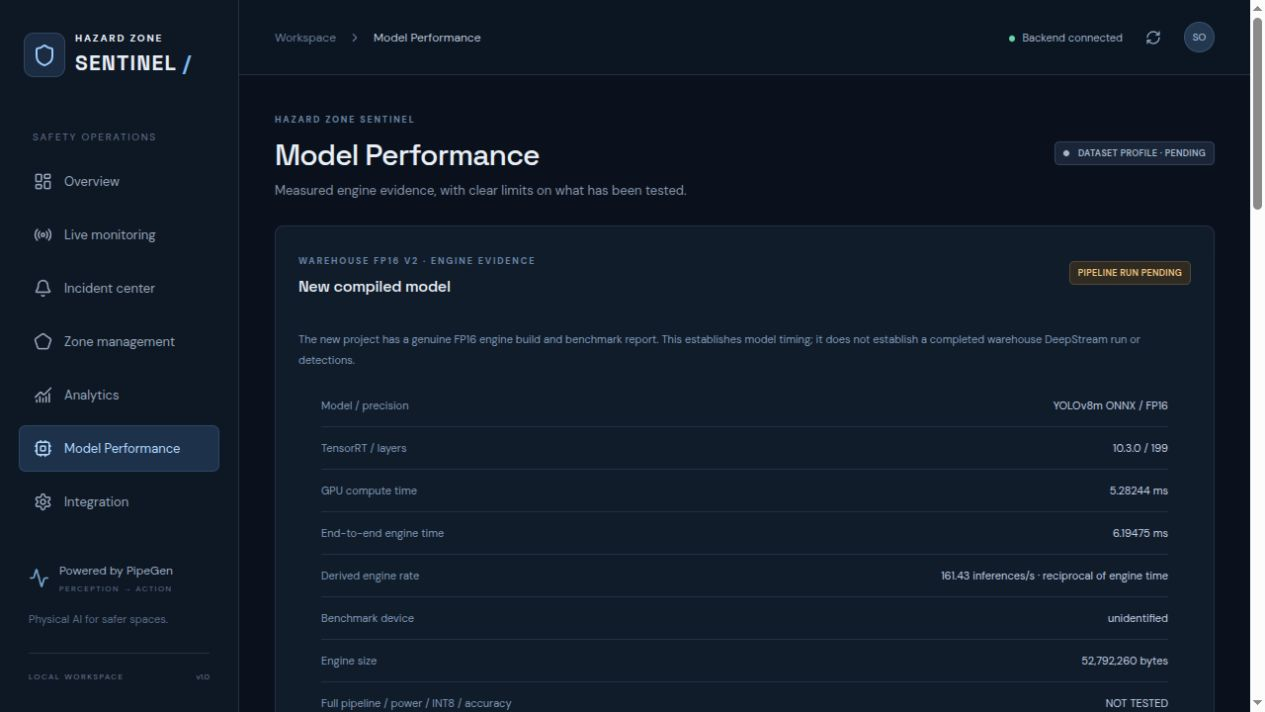
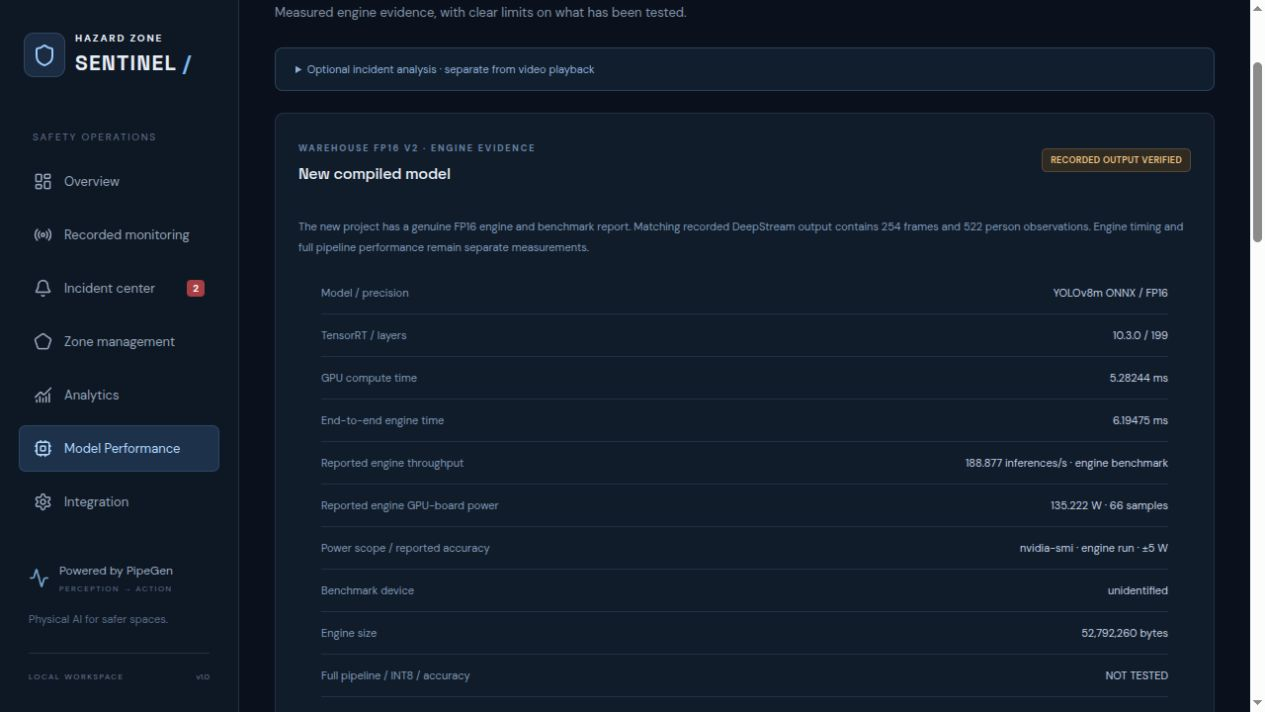
Finalize warehouse benchmark provenance and judging handoff

diff --git a/frontend/src/ModelPerformance.tsx b/frontend/src/ModelPerformance.tsx
@@ -6,7 +6,7 @@ const measured = (value: unknown, digits = 5) => typeof value === 'number' && Nu
 export default function ModelPerformance() {
  const maximum=Math.max(report.measured_gpu_compute_ms,report.measured_end_to_end_engine_ms);
  return <div className="performance-page">
-  <section className="panel"><div className="panel-heading"><div><span className="eyebrow">WAREHOUSE FP16 V2 · ENGINE EVIDENCE</span><h2>New compiled model</h2></div><span className="badge amber">RECORDED OUTPUT VERIFIED</span></div><div className="performance-provenance"><p>The new project has a genuine FP16 engine and benchmark report. Matching recorded DeepStream output contains 254 frames and 522 person observations. Engine timing and full pipeline performance remain separate measurements.</p><dl className="details"><dt>Model / precision</dt><dd>{warehouse.model} / {warehouse.precision.toUpperCase()}</dd><dt>TensorRT / layers</dt><dd>{warehouse.tensorrt} / {warehouse.layer_count}</dd><dt>GPU compute time</dt><dd>{warehouse.measured_gpu_compute_ms} ms</dd><dt>End-to-end engine time</dt><dd>{warehouse.measured_end_to_end_engine_ms} ms</dd><dt>Derived engine rate</dt><dd>{(1000/warehouse.measured_end_to_end_engine_ms).toFixed(2)} inferences/s · reciprocal of engine time</dd><dt>Benchmark device</dt><dd>{warehouse.benchmark_device_in_report}</dd><dt>Engine size</dt><dd>{warehouse.engine_bytes.toLocaleString()} bytes</dd><dt>Full pipeline / power / INT8 / accuracy</dt><dd>NOT TESTED</dd></dl><p>{warehouse.caveat}</p><code>evidence/04-tensorrt-fp16/warehouse-engine-summary.json</code></div></section>
+  <section className="panel"><div className="panel-heading"><div><span className="eyebrow">WAREHOUSE FP16 V2 · ENGINE EVIDENCE</span><h2>New compiled model</h2></div><span className="badge amber">RECORDED OUTPUT VERIFIED</span></div><div className="performance-provenance"><p>The new project has a genuine FP16 engine and benchmark report. Matching recorded DeepStream output contains 254 frames and 522 person observations. Engine timing and full pipeline performance remain separate measurements.</p><dl className="details"><dt>Model / precision</dt><dd>{warehouse.model} / {warehouse.precision.toUpperCase()}</dd><dt>TensorRT / layers</dt><dd>{warehouse.tensorrt} / {warehouse.layer_count}</dd><dt>GPU compute time</dt><dd>{warehouse.measured_gpu_compute_ms} ms</dd><dt>End-to-end engine time</dt><dd>{warehouse.measured_end_to_end_engine_ms} ms</dd><dt>Reported engine throughput</dt><dd>{warehouse.reported_engine_throughput_qps} inferences/s · engine benchmark</dd><dt>Reported engine GPU-board power</dt><dd>{warehouse.reported_power.engine_power_w} W · {warehouse.reported_power.power_samples} samples</dd><dt>Power scope / reported accuracy</dt><dd>nvidia-smi · engine run · ±{warehouse.reported_power.power_accuracy_w} W</dd><dt>Benchmark device</dt><dd>{warehouse.benchmark_device_in_report}</dd><dt>Engine size</dt><dd>{warehouse.engine_bytes.toLocaleString()} bytes</dd><dt>Full pipeline / INT8 / accuracy</dt><dd>NOT TESTED</dd></dl><p>{warehouse.caveat}</p><code>evidence/04-tensorrt-fp16/warehouse-engine-summary.json</code></div></section>
   <div className="performance-notice"><FileCheck2 size={21}/><div><strong>Historical engine evidence</strong><p>These values come from the existing compiler report. They describe the recorded model’s TensorRT engine benchmark, not the active scene, a new factory run, or complete application throughput.</p></div><span className="badge blue">SOURCE-BACKED</span></div>
   <div className="performance-metrics">
    <section className="stat-card"><div><span>GPU compute time</span><Cpu size={19} className="blue"/></div><strong>{measured(report.measured_gpu_compute_ms)}<em>ms</em></strong><small>Measured engine benchmark</small></section>
@@ -18,7 +18,7 @@ export default function ModelPerformance() {
    <section className="panel"><div className="panel-heading"><div><span className="eyebrow">COMPILED ARTIFACT</span><h2>Model and engine details</h2></div></div><dl className="details"><dt>Model</dt><dd>{report.model}</dd><dt>Semantic model version</dt><dd>{report.semantic_model_version}</dd><dt>Input shape</dt><dd>{report.input_shape.join(' × ')}</dd><dt>Engine size</dt><dd>{report.engine_bytes.toLocaleString()} bytes</dd><dt>Layer precision</dt><dd>{report.precision_mix.FP16} FP16 · {report.precision_mix.FP32} FP32</dd><dt>Derived engine rate</dt><dd>{(1000/report.measured_end_to_end_engine_ms).toFixed(2)} inferences/s · reciprocal of engine time</dd><dt>Benchmark device</dt><dd>Not identified in report</dd></dl></section>
    <section className="panel full-width"><div className="panel-heading"><div><span className="eyebrow">EVIDENCE BOUNDARIES</span><h2>What remains unmeasured</h2></div><span className="badge amber">NO INFERRED RESULTS</span></div><div className="table-scroll"><table className="performance-boundaries"><thead><tr><th>METRIC / TARGET</th><th>STATUS</th><th>WHAT THE CURRENT EVIDENCE ESTABLISHES</th></tr></thead><tbody>{[
     ['Full pipeline performance','NOT MEASURED','Engine timing does not include decoding, tracking, analytics, storage, or the dashboard.'],
-    ['Actual GPU power consumption','NOT TESTED','No verified wattage measurement is provided.'],
+    ['Whole-system / full-pipeline power','NOT TESTED','New engine-run GPU-board power is reported above; no whole-system or complete-pipeline power measurement is supplied.'],
     ['INT8 engine / accuracy','NOT TESTED','No measured INT8 build or comparison is supplied.'],
     ['Precision / recall / mAP','NOT TESTED','No labeled validation dataset and measured accuracy report is supplied.'],
     ['Dataset evaluation','NOT TESTED','Warehouse footage is a demonstration clip; no reviewed held-out ground truth is supplied.'],

diff --git a/docs/factory-release.md b/docs/factory-release.md
@@ -1,91 +1,69 @@
-# Factory safety release — evidence and asset boundary
+# Verified warehouse release
 
-The `release/factory-safety` branch preserves the known-good street replay while preparing an explicitly separate factory/warehouse dataset. Historical footage remains labeled **historical street**. The completed factory output is now preserved as an immutable metadata snapshot; live GUI execution evidence and downstream visual QA remain distinct checks. Reusing street metadata against different footage is prohibited.
+**Application:** http://127.0.0.1:5173/ · **API:** http://127.0.0.1:8003/ · **Cutoff:** October 18, 2026, **4 PM IST**, explicitly selected by the user.
 
-## Current evidence status
+## Verified results
 
-| Item | Status | Evidence / limitation |
-| --- | --- | --- |
-| Historical street replay | DONE | 1,029 frames; 7,688 person observations; 89 recurring raw IDs; 33 application-computed alerts: 23 first observed inside, 10 observed entries; 11 observed exits, zero verified reentries |
-| Original source/export preservation | DONE for read-only audit and private draft asset | Existing metadata/archive unchanged; archived export uploaded privately with API digest matching local hash |
-| Factory footage | VERIFIED SOURCE | Licensed Pexels Tiger Lily warehouse clip, H264 1920×1080, 25 FPS, 254 decoded frames, 10.16 s; its matched factory metadata snapshot is preserved |
-| New factory PipeGen output | VERIFIED METADATA SOURCE; LIVE-DEMO EVIDENCE STILL REQUIRED | Separate project output: 254 frames, 522 person observations, 6 raw tracker IDs; generated pipeline uses the warehouse source. Actual venue demonstration/run capture remains outstanding |
-| Factory scene ROI | CONFIGURATION VERIFIED; PHYSICAL VALIDITY LIMITED | Final frame-relative polygon `(0.42,0.74)`–`(0.62,0.86)`; generated native `RestrictedZone` pixel coordinates `(806,799),(1190,799),(1190,929),(806,929)`. Camera moves; hypothetical screen zone, not calibrated physical hazard |
-| Factory synchronized dashboard | VERIFIED RECORDED REPLAY | Browser frames 25/50/75/100 at 1/2/3/4 s aligned with original pixel boxes and SVG rectangles; sampled PTS delta zero. App screenshot preserved; this is not PipeGen GUI or live inference evidence |
-| Labeled accuracy, fine-tuning and INT8 comparison | NOT TESTED | No reviewed held-out factory labels or matched measurements supplied to this release documentation |
-| Jetson deployment | NOT DEPLOYED / NOT TESTED | RTX execution and modeled Orin estimates do not establish Jetson deployment |
+The new Warehouse FP16 v2 project `5b159399-c172-4ac5-8b45-430bd54a4a99` produced genuine metadata matching its warehouse video. The recorded dashboard uses those detections; synthetic input and historical street data remain separate.
 
-The separate Chat 2 factory mission records footage provenance and CPU decode validation under its `outputs/factory-mission/`. The separate completed metadata snapshot now supplies genuine factory observations; provenance research alone would not have supplied them.
+| Result | Verified value |
+| --- | --- |
+| Source frames / duration | 254 / 10.16 seconds |
+| Frame dimensions / source | 1920×1080 / source 0 |
+| Person observations / tracker IDs | 522 / 6; IDs do not establish unique physical people |
+| Computed entry alerts | 2, including 1 observed same-track reentry |
+| Observed exits / initially inside | 2 / 0 |
+| Repeated inside observations suppressed | 43 |
+| Native ROI disagreement | 9 frames; cause unresolved, not hidden or forced to agree |
+| Final automated checks | 136 backend tests, 25 frontend tests, TypeScript and production build passed |
 
-## Profile contract
+The actual generated `RestrictedZone` polygon uses pixels `(806,799),(1190,799),(1190,929),(806,929)`. The application uses these exact coordinates normalized by 1920×1080. The camera moves and the zone is hypothetical and frame-relative; this is not a calibrated industrial safety deployment.
 
-A configured dataset manifest binds one video to its own genuine metadata using SHA-256, source ID, source frame dimensions and explicitly verified PTS offset. Profile state is `PENDING`, `READY` or `INVALID`; missing/invalid factory assets must not fall back to historical street files. Databases default to `data/profiles/<manifest-id>.sqlite3` and are bound to dataset identity, so factory history and acknowledgments cannot silently mix with street history. `GET /api/profile`, `/api/status` and the replay timeline expose the selected profile state.
+## Video, timestamps and persistence
 
-The backend profile interface uses `SENTINEL_DATASET_PROFILE=factory|historical_street` and `SENTINEL_PROFILE_PATH=/absolute/path/to/manifest.json`. A manifest uses version 1 and includes `id`, `name`, `description`, `scene_type`, `source_kind: "recorded_pipegen"`, `video_path`, `metadata_path`, both hashes, `frame_width`, `frame_height`, `source_id`, `camera_id`, `pts_offset_ns`, `pts_mapping_verified: true`, `pts_verification_note`, `model_name`, `precision` and optional `tolerance_ns`. A factory manifest also requires a nonempty `zones` array of valid zone inputs assigned to its `camera_id`; those polygons must be checked against the actual factory frame. Relative media paths resolve against the manifest directory. Do not set `pts_mapping_verified` merely to satisfy validation; inspect source timing first.
[2 lines of base64/hex data omitted]
+- Every decoded source-frame timestamp matched the export. Metadata PTS = presented video time + **80,000,000 ns**. Metadata PTS spans 80,000,000–10,200,000,000 ns.
+- Actual browser frames 25, 50, 75 and 100 at media times 1, 2, 3 and 4 seconds were visually reviewed. Original pixel boxes and equal SVG/video rectangles matched; sampled timestamp differences were zero.
+- [Real warehouse screenshot](../evidence/07-real-mode-dashboard/warehouse-real-video-overlay.jpg) and [alignment observations](../evidence/07-real-mode-dashboard/warehouse-browser-alignment.json) preserve the checks.
+- HTTP/WebSocket delivery, independent SQLite reading, acknowledgment persistence, reconnects and restart recovery passed. Actual demo-service restart retained both incident IDs and acknowledgment states.
+- Playback, pause, seek and replay do not append incidents. Explicit **Analyze new session** intentionally creates another persisted analysis session. A clean clone starts with empty history until analysis is requested.
 
-Do not create a completed factory manifest from the historical street fields. The historical 33,366,700 ns offset and 8,350,000 ns tolerance are evidence for that source pair only. The factory source FPS and timestamps must determine its own mapping and tolerance.
+The [metadata audit](../evidence/06-real-metadata/factory-metadata-audit.json) documents entry frames 38 and 66, exits and native occupancy disagreements. Missing tracks do not imply exits; gap reappearances do not prove identity reuse. No ground-truth accuracy is inferred from these checks.
 
-## Metrics: measured, modeled and absent
+## Model evidence and limits
 
-The existing inspected FP16 summary reports 52,730,564 engine bytes, 4.94176 ms measured GPU compute and 5.84506 ms measured end-to-end engine latency. The reciprocal of engine latency is approximately 171 engine inferences/second; this is not full DeepStream throughput. The summarized report does not identify the measured device. User-provided baseline context says RTX 2060 SUPER and approximately 129 W, but power remains unverified in the packaged report (`power_watts_verified: null`).
+The new YOLOv8m ONNX model compiled to a new TensorRT 10.3 FP16 engine: 52,792,260 bytes, 199 layers, 16.304-second build. Its semantic model version is not reported; the exact engine fingerprint is retained in the [selected summary](../evidence/04-tensorrt-fp16/warehouse-engine-summary.json).
 
-The Orin NX values, approximately 168.72 estimated FPS at a modeled 15 W profile, are **modeled estimates**, not measurements and not deployment evidence. No supported factory accuracy, fine-tuning improvement, INT8 speed/power advantage or Jetson result is claimed.
+PipeGen reports **188.877 engine inferences/s**, **5.28244 ms mean GPU compute** and **6.19475 ms mean end-to-end engine latency**. Engine throughput is reported separately, not inferred from latency. Its nested measurement reports **135.222 W GPU-board power during the engine run**, via `nvidia-smi`, 66 samples, reported accuracy ±5 W. This audit did not independently rerun those measurements. The reconciliation section leaves the measured device unidentified.
 
-## Official requirements source
+These are engine-scope results, not full DeepStream FPS or whole-system power. Orin NX estimates are modeled, not Jetson deployment evidence. INT8, independently labeled precision/recall/mAP and Jetson deployment remain **NOT TESTED**. The older 184-layer street engine and 33-alert street analysis remain historical only.
 
[1 lines of base64/hex data omitted]
+## Launch and source protection
 
-INT8 or actual Jetson deployment with speed/power/accuracy trade-offs is an optional Track A bonus (pages 1–2). Custom factory labels/fine-tuning are user-requested additions, not mandatory Track A eligibility requirements. The official rules allow a video file as input; a replay dashboard is not a substitute for showing the actual pipeline running on hardware.
+```bash
+./scripts/start-warehouse-demo.sh /absolute/path/to/warehouse-workers-4281405-1080p.mp4
+```
 
-Page 6 prints 4:00 pm without a timezone. The user explicitly selected October 18, 2026, 4 PM IST as the cutoff, superseding earlier 6 PM instructions. The exact page-mapped checklist and PipeGen submission URL are in `submission-checklist.md`.
+Second terminal:
 
-Factory status: **saved Requirement/IR, new FP16 engine report and genuine factory metadata are verified; profile READY; recorded browser replay and computed alert counts verified; PipeGen stage screenshots, export packaging and live venue demonstration remain outstanding**. This PDF review itself establishes no inference/accuracy result.
+```bash
+SENTINEL_API_TARGET=http://127.0.0.1:8003 ./scripts/start-frontend.sh --port 5173 --strictPort
+```
 
-## Checks executed for this documentation pass
+The launcher binds the explicit video/metadata hashes, source, dimensions, verified offset and zone to a separate `data/profiles/warehouse-fp16-v2.sqlite3`. Missing or invalid factory assets never substitute street files. The original metadata, old database and baseline export were preserved. Safety tags retain `40d2975` and `22edb32`.
 
-- Parsed the evidence ledger, archive audit and release manifest as JSON; all valid.
-- Preserved the seven-stage factory ledger and historical ledger separately; updated each stage only as genuine artifacts became available.
-- Read-only archive integrity/path/link/credential-pattern screening completed as recorded in `../evidence/export-archive-audit.json`.
-- Ran `.venv/bin/python scripts/validate_dataset_profile.py /nonexistent/factory-manifest.json --scene factory`: returned exit code **2**, state **PENDING**, `verified: false`, with no substituted street source. This validates the documented missing-manifest behavior only.
-- Read the complete official PDF using `pdftotext`; verified 7-page document metadata and SHA-256, and rendered/visually reviewed mandatory page 2 and submission/setup page 6. Updated the page-mapped checklist. No factory inference or overall compliance completion is claimed.
+## Export and remaining submission gates
 
-Application regression/build/browser checks are reported by the primary/frontend/backend agents separately; these documentation checks do not substitute for them.
[1 lines of base64/hex data omitted]
 
-## Current application release checks
+The [official seven-page PDF](../evidence/01-requirement-and-flow/official-problem-statement.pdf) requires the five-stage flow, TensorRT report, actual GPU execution and actionable output (page 2), a hardware demonstration (page 5), and source/export, description and actual IR/speed-report screenshots (page 6). Pitch/video and INT8/Jetson bonuses are optional. See the [page-mapped checklist](submission-checklist.md).
 
-Primary-runtime suite: **136 backend tests**, **25 frontend tests**, TypeScript and production build passed. Browser checks confirmed the factory profile shows PENDING and zero history with no historical fallback; the Model Performance page loads its genuine JSON evidence; legacy street video still plays with aligned SVG/video bounds and sub-microsecond sampled PTS difference. Those were the earlier pending-profile checks. Matching factory metadata and the subsequent real recorded-video browser QA are now verified below.
+Remaining gates:
 
-The reusable CPU-only timing verifier is `scripts/verify_video_timestamps.py VIDEO METADATA --report REPORT.json` (system Python with existing GStreamer). It compares every decoded frame dimension and timestamp; additionally check browser presented media time. It does not prove execution provenance or rerun inference. The backend replay verifier also checks restart recovery, acknowledgment persistence, repeated WebSocket reconnection, observed transitions and native ROI disagreements.
+- Actual PipeGen GUI Pipeline IR and speed-report screenshots; app screenshots do not replace them.
+- Venue/live hardware demonstration and its required execution evidence.
+- Authorized judge access to the private source/export and organizer acceptance of the asset mechanism.
+- Actual project-submission link and receipt. User reports the prerequisite feedback complete; the final project link is still awaited.
 
-
-**Operative cutoff: October 18, 2026, 4 PM IST.** The user explicitly selected this cutoff after the PDF discrepancy was raised. Prior 6 PM assumptions are superseded.
-
-## New Warehouse FP16 v2 checkpoint
-
-Project `5b159399-c172-4ac5-8b45-430bd54a4a99` now has saved Requirement and PipelineIR evidence. Sanitized copies preserve the original hashes and requested YOLOv8m, NvDCF and final frame-relative zone `(0.42,0.74)`–`(0.62,0.86)`. This zone is hypothetical and the camera moves; it is not a calibrated fixed-world industrial safety boundary. Official IR graph screenshot remains pending.
-
-The new model has a genuine newly built TensorRT10.3 FP16 engine: 52,792,260bytes,199layers, build16.304s. Its numeric report records5.28244msGPUcompute and6.19475msend-to-endengine timing. The measured device is unidentified in that report. Model semantic version, measured power, fullpipelineFPS, INT8, accuracy and Jetson deployment are unverified. See `../evidence/04-tensorrt-fp16/warehouse-engine-summary.json`; these facts supersede historical engine values only for the new model; engine timing is not full factory-pipeline throughput. Original reports/engine unchanged and externally stored.
-
-## Preserved completed factory metadata snapshot
-
[1 lines of base64/hex data omitted]
-
-The original output path can be overwritten by subsequent operator runs; the immutable completed snapshot avoids partial-file reads and prevents changing replay evidence. No source JSON was repaired or detections generated by the application. Generated pipeline source and native pixel ROI were inspected separately by the primary agent.
-
-Final running endpoints are backend `http://127.0.0.1:8003` and frontend **http://127.0.0.1:5173**. Actual browser QA checked frames 25/50/75/100 at 1/2/3/4 seconds: original pixel boxes and displayed SVG rectangles matched, with sampled PTS delta zero. `../evidence/07-real-mode-dashboard/warehouse-real-video-overlay.jpg` shows the genuine recorded warehouse video, person boxes and red zone. It is an application screenshot, not a PipeGen GUI graph/report or a capture proving inference was currently executing.
-
-Verified factory analysis produces **2 observed-entry alerts, including 1 observed same-track reentry; 0 initial-inside alerts; 2 observed exits; 43 inside-hold observations suppressed**. Track 0 has entry frames 38 and 66. Restart checks preserved the two event IDs and acknowledgment states. Native ROI occupancy differs from application bottom-center box geometry in **9 frames**; the cause is unresolved and is not explained by rounding or confidence filtering. Do not treat native ROI counts as ground truth or silently hide disagreement. The moving camera makes this a hypothetical frame-relative zone, not a calibrated industrial hazard boundary. See `../evidence/06-real-metadata/factory-metadata-audit.json`.
-
-Four raw IDs have 13 gap reappearances; those observations do not establish real-world identity or prove tracker ID reuse. No precision/recall/mAP is inferred from this analysis.
-
-No new factory export archive was located under the scoped external exports/Chat 2 evidence directories during this pass. Historical private draft asset remains preserved; a new factory export and genuine IR/speed-report GUI screenshots are still required.
-
-
-## Final verification boundary
-
-Recorded factory playback, frame/overlay timing and two persisted incidents are verified. Actual PipeGen GUI IR/speed-report screenshots, a new factory export and the live hardware demonstration remain pending. The operative cutoff remains **October 18, 2026, 4 PM IST**. The primary agent is running the final regression suite; do not label anticipated test totals as completed until its results are recorded.
-
-
-## Final export distribution
-
[1 lines of base64/hex data omitted]
+The application is verified as **recorded factory replay**. The hackathon submission is not marked complete.

diff --git a/docs/demo-script.md b/docs/demo-script.md
@@ -1,3 +1,27 @@
+# Verified warehouse demonstration — 90 seconds
+
+Use the real recorded warehouse profile at `http://127.0.0.1:5173/`. Do not run another analysis session during ordinary replay: the existing two alerts are persisted, and video controls intentionally do not write duplicates. A clean database needs one explicit metadata analysis first.
+
+**0–15 seconds:** “Hazard Zone Sentinel turns genuine PipeGen person tracks into restricted-zone incidents. This warehouse video was processed by our five-stage PipeGen pipeline using YOLOv8m, TensorRT FP16, NvDCF tracking and NVIDIA analytics. The dashboard is clearly labeled recorded replay.”
+
+**15–35 seconds:** “The actual video and metadata share verified hashes and timestamps. These boxes follow real workers, with original IDs and confidence. The red aisle polygon comes from the generated DeepStream configuration. The camera moves, so this is a hypothetical screen-relative demonstration rather than a calibrated factory safety deployment.”
+
+**35–50 seconds:** “The 254-frame clip contains 522 person observations and 6 observed track IDs, not 6 verified people. Our bottom-center polygon analysis produces 2 entry alerts for track 0, including 1 re-entry, and 2 observed exits. Holding inside suppresses repeated alerts. Native occupancy differs on 9 frames; we report that disagreement.”
+
+**50–65 seconds:** “Open Incident center to inspect the recorded PTS and original track, acknowledge an event, and filter history. FastAPI delivers WebSocket updates; SQLite keeps incidents and acknowledgments across restart. Video pause, seeking and replay keep the same stored count.”
+
+**65–80 seconds:** “The new engine report shows 188.877 inferences/s, 6.19475 ms mean engine latency, and 135.222 W GPU-board power during the engine run. Those are PipeGen-reported engine measurements, not full-pipeline throughput or whole-machine power. INT8, independent accuracy and Jetson deployment are not tested.”
+
+**80–90 seconds:** “The private source and matching PipeGen export are available separately. Show the actual Pipeline IR and speed-report screenshots and the GPU pipeline run for required hardware evidence. The application screenshot supports that demonstration; it does not replace it.”
+
+## Operator evidence before submitting
+
+Capture the actual PipeGen graph, TensorRT speed-report panel and execution evidence. Confirm judges can access the private repository/export, complete the actual project form, and keep its receipt before the **4 PM IST cutoff**. User reports feedback complete; final project-link/receipt still need confirmation.
+
+---
+
+# Historical synthetic rehearsal (preserved)
+
 # Demonstration script
 
 ## Application-only rehearsal (SYNTHETIC TEST MODE)
